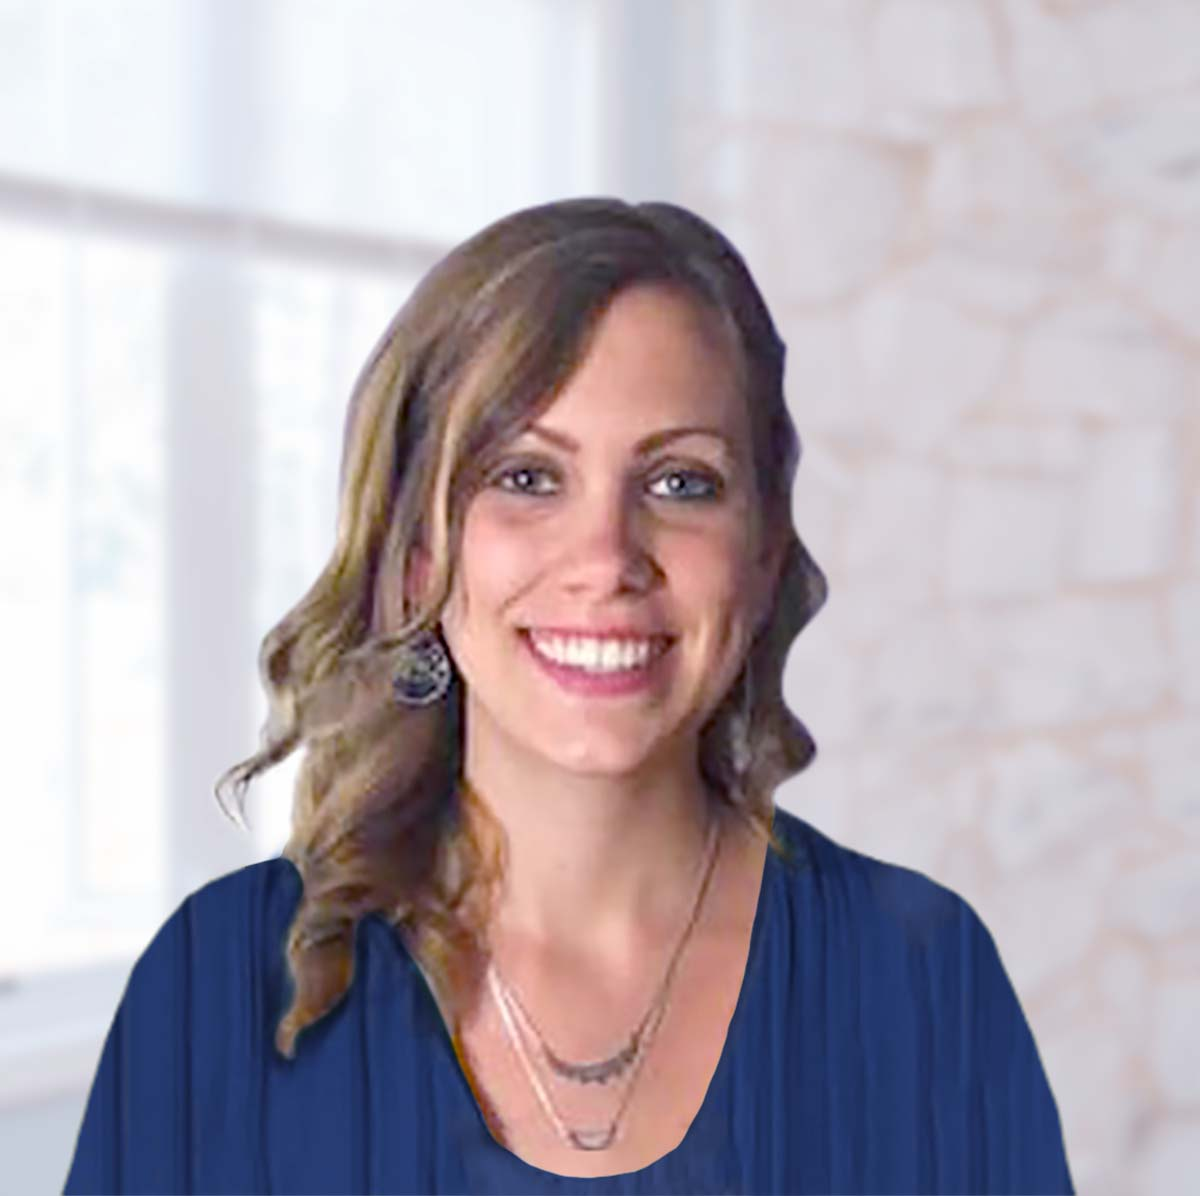
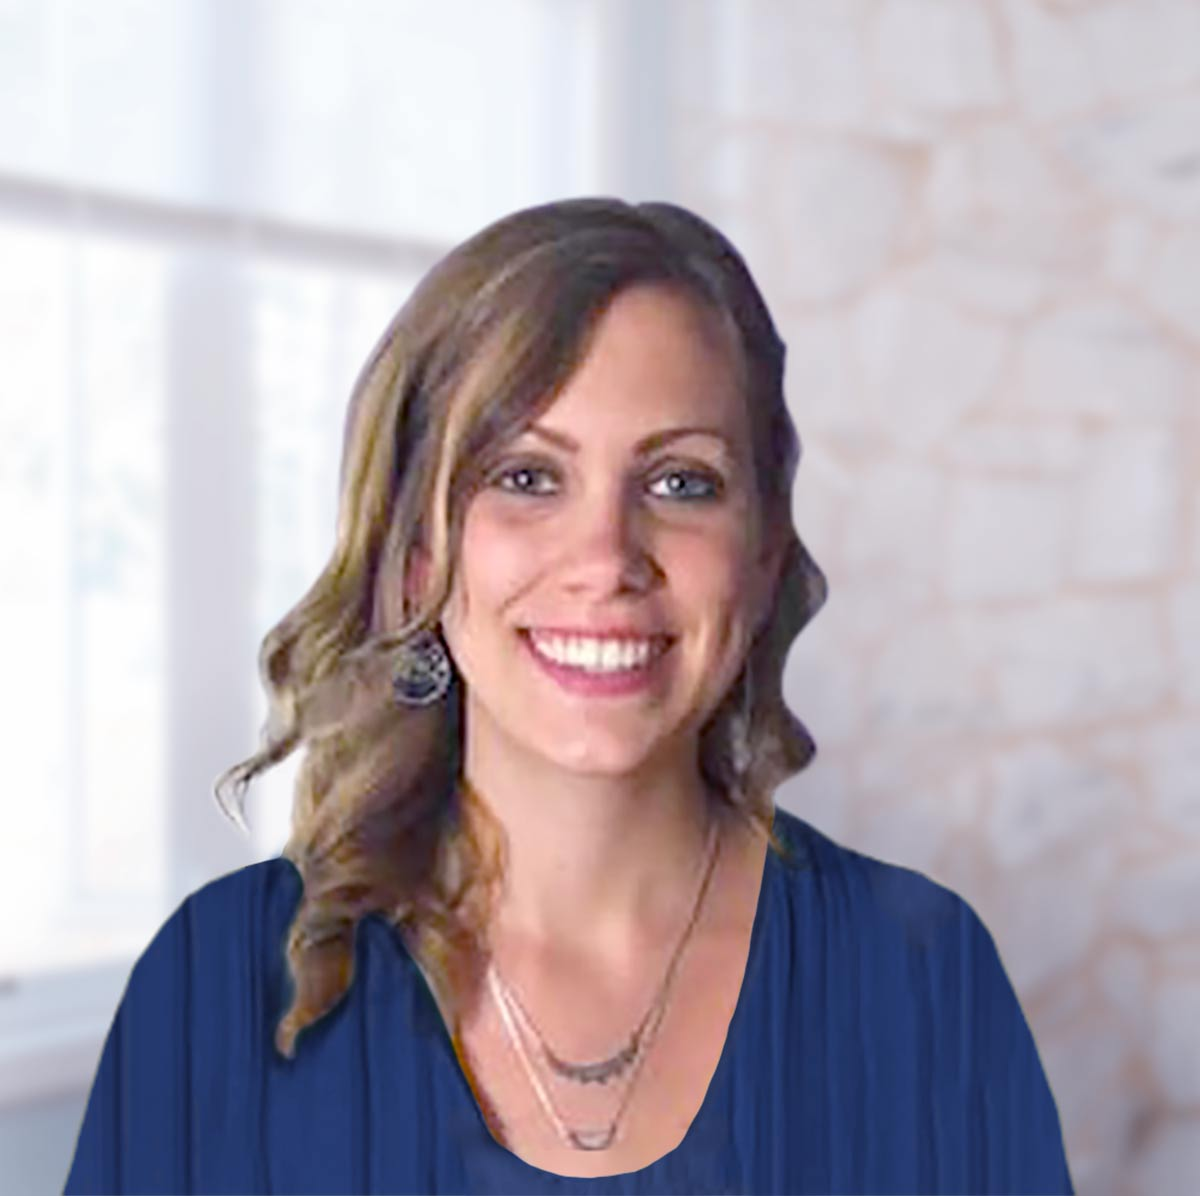
Updated images of the stuff and the new employee

Changed region(s): [[0.6475, 0.5878, 1.0, 1.0], [0.0, 0.8353, 0.0925, 1.0]]

diff --git a/about-us.html b/about-us.html
@@ -46,7 +46,7 @@ description: Dedicated health care professionals at Self-Sufficient Seniors.
 
         <div class="unit xs-1 m-1-3 gutter-m-right pad-b-1-2">
           <div class="embed embed-1by1">
-            <img class="img-flex embed-item" src="{{site.baseurl}}/images/photo-jordan.jpg" alt="Photo of Jordan Brazier">
+            <img class="img-flex embed-item" src="{{site.baseurl}}/images/photo-catherine.jpg" alt="Photo of Catherine Shaw">
           </div>
         </div>
         <div class="unit xs-1 m-2-3 gutter-m-left pad-b-1-2">
